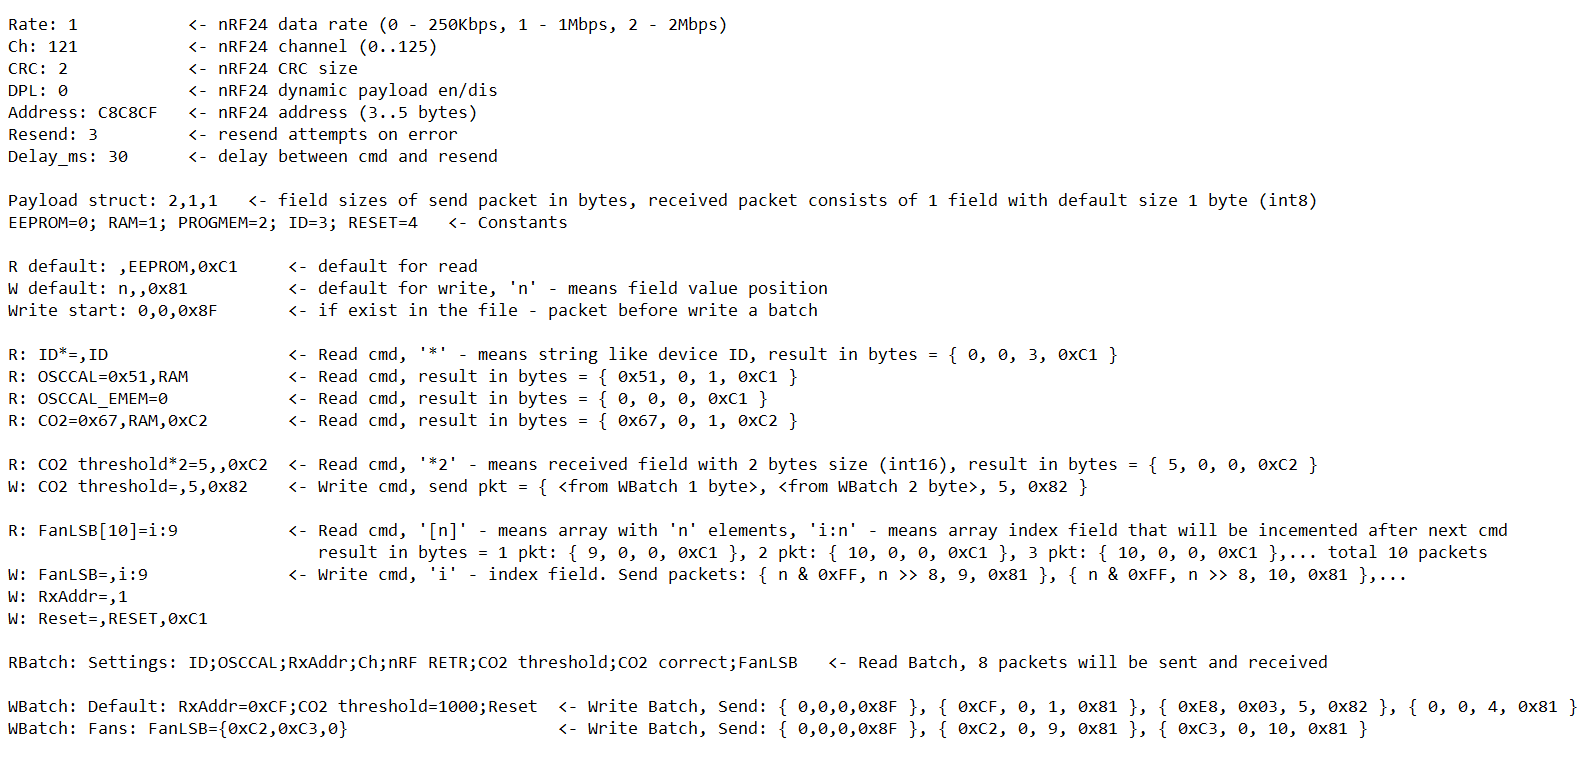
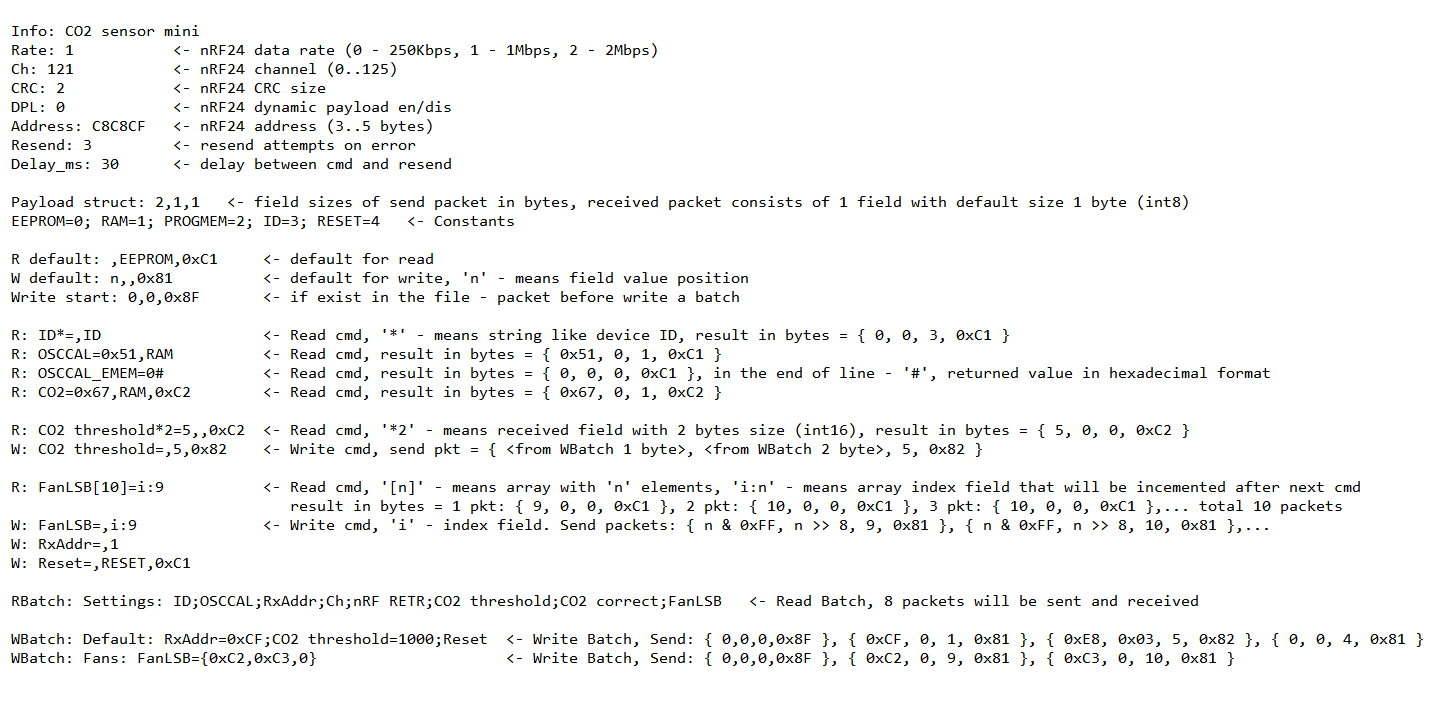
Ability to save in file read data (ReadBatch) as WriteBatch

diff --git a/nrf24batch.c b/nrf24batch.c
@@ -14,7 +14,7 @@
 #include <u8g2.h>
 
 #define TAG 		"nrf24batch"
-#define VERSION		"1.1"
+#define VERSION		"1.2"
 
 #define SCAN_APP_PATH_FOLDER "/ext/nrf24batch"
 #define LOG_FILENAME 		"log"
@@ -64,6 +64,7 @@ uint8_t send_status = sst_none;// sst_*
 bool cmd_array = false;
 uint8_t cmd_array_idx;
 uint8_t cmd_array_cnt = 0;
+bool cmd_array_hex;
 uint8_t save_settings = 0;
 uint16_t view_cmd[3] = {0, 0, 0}; // ReadBatch, Read, WriteBatch
 uint8_t view_x = 0;
@@ -257,16 +258,13 @@ static bool select_settings_file() {
 	FuriString* path;
 	path = furi_string_alloc();
 	furi_string_set(path, SCAN_APP_PATH_FOLDER);
-
 	DialogsFileBrowserOptions browser_options;
 	dialog_file_browser_set_basic_options(&browser_options, ".txt", NULL);
 	browser_options.hide_ext = false;
-
 	bool ret = dialog_file_browser_show(dialogs, path, path, &browser_options);
-
 	furi_record_close("dialogs");
 	if(ret) {
-		if(!file_stream_open(file_stream, furi_string_get_cstr(path), FSAM_READ, FSOM_OPEN_EXISTING)) {
+		if(!file_stream_open(file_stream, furi_string_get_cstr(path), FSAM_READ_WRITE, FSOM_OPEN_EXISTING)) {
 			FURI_LOG_D(TAG, "Cannot open file \"%s\"", furi_string_get_cstr(path));
 			file_stream_close(file_stream);
 		} else {
@@ -333,10 +331,13 @@ uint8_t nrf24_send_packet()
 
 uint8_t nrf24_resend_read_packet()
 {
-	if(Log_Total) {
+	if(Log_Total && !cmd_array) {
 		FuriString *str = Log[Log_Total - 1];
 		char *p = strstr(furi_string_get_cstr(str), ": ");
-		if(p) furi_string_left(str, p - furi_string_get_cstr(str) + 2);
+		if(p) {
+			if(strncmp(p + 2, "0x", 2) == 0) p += 2;
+			furi_string_left(str, p - furi_string_get_cstr(str) + 2);
+		}
 	}
 	return nrf24_send_packet();
 }
@@ -369,23 +370,23 @@ bool nrf24_read_newpacket() {
 			else if(size == 3) var = (*(uint32_t*)payload_receive) & 0xFFFFFF;
 			else var = *(int32_t*)payload_receive;
 			//FURI_LOG_D(TAG, "VAR(%d): %ld", size, var);
-			if(size == 0) furi_string_cat_printf(str, "%c", (char)var); 
+			if(size == 0) furi_string_cat_printf(str, "%c", (char)var);
 			else {
-				if(var >= 0 && var <= 9) furi_string_cat_printf(str, "%ld", var);
+				char hex[9];
+				snprintf(hex, sizeof(hex), "%lX", var);
+				if((cmd_array && cmd_array_hex) || furi_string_end_with_str(str, "0x")) furi_string_cat_str(str, hex);
 				else {
-					char hex[9];
-					snprintf(hex, sizeof(hex), "%lX", var);
-					furi_string_cat_printf(str, "%ld (%s)", var, hex + (var < 0 ? 8 - size * 2 : 0));
+					if(var >= 0 && var <= 9) furi_string_cat_printf(str, "%ld", var);
+					else furi_string_cat_printf(str, "%ld (%s)", var, hex + (var < 0 ? 8 - size * 2 : 0));
 				}
 			}
 			if(cmd_array) {
 				if(--cmd_array_cnt) {
 					furi_string_cat_str(str, ",");
-					payload[cmd_array_idx]++;
+					if(cmd_array_hex) furi_string_cat_str(str, "0x");
+					payload[cmd_array_idx]++;	// next array element
 					NRF_repeat = 0;
-					send_status = sst_sending;
-					furi_delay_ms(delay_between_pkt);
-					nrf24_send_packet();
+					send_status = sst_sending;	// Will be send after delay_between_pkt
 				} else send_status = sst_ok;
 			} else {
 				if(size == 0) { // string, until '\0'
@@ -448,6 +449,8 @@ bool fill_payload(char *p, uint8_t *idx_i, int32_t var_n)
 			}
 		} else if(end == p) {
 			idx += payload_struct[fld];
+		} else if(*p == '#') { // value in Hexadecimal, end string
+			break;
 		} else {
 			ERR = 2;
 			strcpy(ERR_STR, "char: ");
@@ -486,6 +489,8 @@ bool Run_Read_cmd(FuriString *cmd)
 	FuriString *fs = furi_string_alloc();
 	furi_string_set_strn(fs, (char*)furi_string_get_cstr(cmd), (*(p-2)=='*' ? p-2 : p) - (char*)furi_string_get_cstr(cmd)); // skip *n
 	furi_string_cat_str(fs, ": ");
+	bool hexval;
+	if((hexval = *(p + strlen(p) - 1) == '#')) furi_string_cat_str(fs, "0x"); // value in Hex format
 	Log[Log_Total++] = fs;
 	p++;
 	memset(payload, 0, sizeof(payload));
@@ -497,7 +502,10 @@ bool Run_Read_cmd(FuriString *cmd)
 		p = strchr(furi_string_get_cstr(cmd), '[');
 		if(p) {
 			cmd_array_cnt = str_to_int(p + 1);
-			if(cmd_array_cnt > 1) cmd_array = true; // array
+			if(cmd_array_cnt > 1) {
+				cmd_array_hex = hexval;
+				cmd_array = true; // array
+			}
 		}
 	}
 	prepare_nrf24();
@@ -778,7 +786,51 @@ static uint8_t load_settings_file() {
 
 static void save_batch(void)
 {
-// to do...
+	FURI_LOG_D(TAG, "Save Batch");
+	char *p, *p2;
+	stream_seek(file_stream, 0, StreamOffsetFromEnd); 
+    FuriHalRtcDateTime dt;
+    furi_hal_rtc_get_datetime(&dt);
+	stream_write_format(file_stream, "\n%s ", SettingsFld_WriteBatch);
+	p = (char*)furi_string_get_cstr(ReadBatch_cmd[view_cmd[rwt_read_batch]]);
+	p2 = strchr(p, ':');
+	if(p2 == NULL) p2 = p + strlen(p);
+	stream_write(file_stream, (uint8_t*)p, p2 - p);
+	stream_write_format(file_stream, " %02d.%02d.%02d %02d.%02d: ", dt.day, dt.month, dt.year % 100, dt.hour, dt.minute);
+	for(uint16_t i = 0; i < Log_Total; i++) {
+		p = (char*) furi_string_get_cstr(Log[i]);
+		p2 = strchr(p, ':');
+		if(p2 && *(p2-1) != '*') {	// skip string
+			if(*(p2-1) == ']') { // array
+				char *p3 = strchr(p, '[');
+				if(p3 == NULL) p3 = p2;
+				stream_write(file_stream, (uint8_t*)p, p3 - p);
+				stream_write_cstring(file_stream, "={");
+				p = (p2 += 2);
+				do {
+					while(is_digit(p2, true) || *p2 == 'x') p2++;
+					stream_write(file_stream, (uint8_t*)p, p2 - p);
+					char c = *p2;
+					if(c == '\0') break;
+					if(c != ',') {
+						p2 = strchr(p2, ',');
+						if(p2 == NULL) break;
+					}
+					stream_write_char(file_stream, ',');
+					p = ++p2;
+				} while(1);
+				stream_write_char(file_stream, '}');
+			} else {
+				stream_write(file_stream, (uint8_t*)p, p2 - p - (*(p2-2) == '*' ? 2 : 0));
+				stream_write_char(file_stream, '=');
+				p2 += 2;
+				p = strchr(p2, ' ');
+				if(p == NULL) p = p2 + strlen(p2);
+				stream_write(file_stream, (uint8_t*)p2, p - p2);
+			}
+			if(i < Log_Total - 1) stream_write_char(file_stream, ';');
+		}
+	}
 }
 
 static void input_callback(InputEvent* input_event, FuriMessageQueue* event_queue) {
@@ -787,6 +839,7 @@ static void input_callback(InputEvent* input_event, FuriMessageQueue* event_queu
 	furi_message_queue_put(event_queue, &event, FuriWaitForever);
 }
 
+#define FONT_5x7_SCREEN_WIDTH 25
 void render_display_list(Canvas* const canvas, FuriString ***fsa, char delim, uint16_t view_pos, uint16_t max_i)
 {
 	uint16_t page = view_pos & ~7;
@@ -799,8 +852,9 @@ void render_display_list(Canvas* const canvas, FuriString ***fsa, char delim, ui
 		if(end) {
 			if(*(end - 1) == '*') end--; // skip *
 			else if(*(end - 2) == '*') end -= 2; // skip *?
-			len = MIN((end - p), 30);
-			strncpy(screen_buf, p, len);
+			len = MIN(end - p, view_x);
+			len = MIN(end - p - len, FONT_5x7_SCREEN_WIDTH);
+			strncpy(screen_buf, p + view_x, len);
 			screen_buf[len] = '\0';
 			canvas_draw_str(canvas, 5, y, screen_buf);
 		}
@@ -811,7 +865,6 @@ void render_display_list(Canvas* const canvas, FuriString ***fsa, char delim, ui
 	}
 }
 
-#define FONT_5x7_SCREEN_WIDTH 25
 static void render_callback(Canvas* const canvas, void* ctx) {
 	const PluginState* plugin_state = acquire_mutex((ValueMutex*)ctx, 25);
 	if(plugin_state == NULL) return;
@@ -875,7 +928,7 @@ static void render_callback(Canvas* const canvas, void* ctx) {
 				strcpy(screen_buf, rw_type == rwt_read_batch ? "Read Batch: " : what_doing == 1 ? "Write Batch: " : "Write: ");
 				if(rw_type == rwt_read_batch || send_status != sst_none) {
 					if(NRF_ERROR) strcat(screen_buf, "nRF24 ERROR!");
-					else if(ERR) snprintf(screen_buf + strlen(screen_buf), 16, "Error %d", ERR); 
+					else if(ERR) snprintf(screen_buf + strlen(screen_buf), FONT_5x7_SCREEN_WIDTH - 7, "Error %d", ERR); 
 					else if(send_status == sst_error) strcat(screen_buf, "NO ACK!");
 					else if(send_status == sst_timeout) strcat(screen_buf, "TIMEOUT!");
 					else if(send_status == sst_ok && ((rw_type == rwt_read_batch && (uint32_t)ReadBatch_cmd_curr == 0xFFFFFFFF) 
@@ -886,10 +939,19 @@ static void render_callback(Canvas* const canvas, void* ctx) {
 					char *p = (char*)furi_string_get_cstr(WriteBatch_cmd[view_cmd[rwt_write_batch]]);
 					char *end = strchr(p, ':');
 					if(end) {
-						uint8_t len = MIN(end - p, 25);
-						end = screen_buf + strlen(screen_buf);
-						memcpy(end, p, len);
-						end[len] = '\0';
+						uint8_t len = end - p;
+						uint8_t lenb = strlen(screen_buf);
+						end = screen_buf + lenb;
+						lenb = FONT_5x7_SCREEN_WIDTH - lenb;
+						if(len > lenb) {
+							if(view_x < len) {
+								strncpy(end, p + view_x, len = MIN(lenb, len - view_x));
+								end[len] = '\0';
+							}
+						} else {
+							strncpy(end, p, len);
+							end[len] = '\0';
+						}
 					}
 				}
 			}
@@ -906,7 +968,7 @@ static void render_callback(Canvas* const canvas, void* ctx) {
 						canvas_draw_str(canvas, 0, y, ">");
 						canvas_draw_str(canvas, -1, y, ">");
 						if(Edit) {
-							int n = Edit_pos - p - vx - (FONT_5x7_SCREEN_WIDTH - 3);
+							int n = Edit_pos - p - vx - (FONT_5x7_SCREEN_WIDTH - 4);
 							if(n > 0) vx += n;	// fix out of screen
 							int x = 6 + (Edit_pos - p - vx) * 5;
 							canvas_draw_line(canvas, x - 1, y, x - 1, y - 1);
@@ -932,7 +994,7 @@ void work_timer_callback(void* ctx)
 		if(rw_type == rwt_write_batch) {
 			if(send_status == sst_ok) {
 				if(ERR == 0 && WriteBatch_cmd_curr < Log_Total && furi_get_tick() - NRF_time >= delay_between_pkt) {
-					if(++WriteBatch_cmd_curr < Log_Total) Run_WriteBatch_cmd();
+					if(++WriteBatch_cmd_curr < Log_Total) Run_WriteBatch_cmd(); else Edited = false;
 				}
 			} else if(send_status == sst_sending) {
 				if(NRF_repeat++ < NRF_resend) nrf24_send_packet(); 
@@ -941,12 +1003,15 @@ void work_timer_callback(void* ctx)
 					send_status = sst_error; // error NO_ACK
 				}
 			}
+		// ReadBatch or ReadCmd
 		} else if(send_status == sst_sending) { // sending
-			if(!NRF_last_packet_send_st) { // No ACK on last attempt
+//			if(!NRF_last_packet_send_st) { // No ACK on last attempt
 				if(furi_get_tick() - NRF_time > delay_between_pkt) {
-					if(NRF_repeat++ < NRF_resend) nrf24_resend_read_packet(); else send_status = sst_error; // error NO_ACK
+					if(NRF_repeat++ < NRF_resend) {
+						if(cmd_array) nrf24_send_packet(); else nrf24_resend_read_packet();
+					} else send_status = sst_error; // error NO_ACK
 				}
-			}
+//			}
 		} else if(send_status == sst_receiving) { // receiving
 			for(uint8_t i = 0; i < 3; i++) {
 				bool new = nrf24_read_newpacket();
@@ -1057,16 +1122,14 @@ int32_t nrf24batch_app(void* p) {
 							ask_question_answer ^= 1;
 						} else if(what_doing == 0) {
 						} else if(what_doing == 1) {
-							if(--rw_type > rwt_write_batch) rw_type = rwt_write_batch;
+							if(event.input.type == InputTypeShort) {
+								if(--rw_type > rwt_write_batch) rw_type = rwt_write_batch;
+							} else if(view_x) view_x--;
 						} else if(what_doing == 2) {
 							if(Edit) {
 								if(is_digit(Edit_pos - 1, Edit_hex)) Edit_pos--;
-								else if(*(Edit_pos - 1) == ',' && is_digit(Edit_pos - 2, true)) {
-									Edit_pos -= 2;
-									// char *p = Edit_pos;
-									// while(is_digit(p, true)) p--;
-									// Edit_hex = *p == 'x';
-								}
+								else if(*(Edit_pos - 1) == 'x' && *(Edit_pos - 3) == ',') Edit_pos -= 4;
+								else if(*(Edit_pos - 1) == ',') Edit_pos -= 2;
 							} else if(view_x) view_x--;
 						}
 					}
@@ -1078,12 +1141,15 @@ int32_t nrf24batch_app(void* p) {
 						} else if(what_doing == 0) {
 							what_doing = 1;
 						} else if(what_doing == 1) {
-							if(++rw_type > rwt_write_batch) rw_type = rwt_read_batch;
+							if(event.input.type == InputTypeShort) {
+								if(++rw_type > rwt_write_batch) rw_type = rwt_read_batch;
+							} else view_x++;
 						} else if(what_doing == 2) {
 							if(Edit) {
 								if(is_digit(Edit_pos + 1, Edit_hex)) Edit_pos++;
-								else if(*(Edit_pos + 1) == ',' && is_digit(Edit_pos + 2, Edit_hex)) {
-									if((/*Edit_hex =*/ *(Edit_pos + 3) == 'x')) Edit_pos += 3; else Edit_pos += 2;
+								else if(*(Edit_pos + 1) == ',') {
+									Edit_pos += 2;
+									if(*(Edit_pos + 1) == 'x') Edit_pos += 2;
 								}
 							} else view_x++;
 						}
@@ -1106,6 +1172,7 @@ int32_t nrf24batch_app(void* p) {
 									if(what_doing == 2) {
 										ERR = 0;
 										send_status = sst_none;
+										Edited = false;
 										what_doing--;
 									}
 								}
@@ -1122,6 +1189,7 @@ int32_t nrf24batch_app(void* p) {
 								if(ReadBatch_cmd_Total) {
 									ERR = 0;
 									Run_ReadBatch_cmd(ReadBatch_cmd[view_cmd[rwt_read_batch]]);
+									view_x = 0;
 									view_Batch = 0;
 									what_doing = 2;
 								}
@@ -1130,13 +1198,15 @@ int32_t nrf24batch_app(void* p) {
 									ERR = 0;
 									free_Log();
 									Run_Read_cmd(Read_cmd[view_cmd[rwt_read_cmd]]);
+									view_x = 0;
 									what_doing = 2;
 								}
 							} else if(rw_type == rwt_write_batch) {
 								if(WriteBatch_cmd_Total) {
 									Prepare_Write_cmd(WriteBatch_cmd[view_cmd[rwt_write_batch]]);
-									Edited = false;
 									send_status = sst_none;
+									Edited = false;
+									view_x = 0;
 									view_Batch = 0;
 									what_doing = 2;
 								}
@@ -1195,11 +1265,10 @@ int32_t nrf24batch_app(void* p) {
 					break;
 				case InputKeyBack:
 					if(event.input.type == InputTypeLong) {
-						if(what_doing <= 1) processing = false;
-						else if(what_doing == 2 && (Edited || rw_type == rwt_read_batch)) {
+						if(what_doing == 2 && (Edited || rw_type == rwt_read_batch)) {
 							if(!ask_question) ask_question_answer = 1;
 							ask_question = ask_exit;
-						}
+						} else processing = false;
 					} else if(event.input.type == InputTypeShort) {
 						if(Edit) Edit = 0;
 						else if(ask_question) ask_question = 0;

diff --git a/README.md b/README.md
@@ -5,20 +5,21 @@ Flipper Zero application for nRF24L01 external board. Sends batch commands. (IN 
 Можно использовать для настройки или чтения данных с удаленного устройства. На удаленной стороне для команды чтения требуется поддержка.<br>
 Сначала выбирается файл настройки с описанием команд.  
 Затем стрелками влево или вправо выбирается нужный режим - Пакетное чтение (Read Batch), Чтение по одной команде (Read cmd), Пакетная запись (Write Batch).  
-<br>
+<br><br>
 Есть два вида команд: запрос-ответ и запись.<br>
 Запрос-ответ - отправка пакета, переключение на прием и отображение на экране, что получили.<br>
 Запись - фактически отправка пакетов подряд с нужными данными.<br>
-<br>
-Формат пакета для отправки (payload) задается в виде размера полей структуры в байтах, например, так "Payload struct: 2,1,1",<br>
-что означает структуру из 3 полей: 2 байта, 1 байт, 1 байт.<br>
+<br><br>
+Формат пакета для отправки (payload) задается в виде размера полей структуры в байтах, например, так "Payload struct: 2,1,1", что означает структуру из 3 полей: 2 байта, 1 байт, 1 байт.<br>
 Полученный в ответ пакет состоит из одного значения, размерность по умолчанию 1 байт (int8), при необходимости, задается числом после '*' после имени команды.<br><br>
 Перед отправкой пакета, он заполняется сначала шаблону по умолчанию "R default" для запроса чтения, "W default" - для записи.<br>
 Можно использовать константы по их имени, они задаются в формате "имя=число", число либо десятичное или шестнадцатеричное с префиксом 0x.<br>
-Затем берутся заполненные значения из самой команды ("R:" или "W:").<br>
-Пакет состоит из списка имен команд, перечисленных через ";".<br>
-Перед пакетом команд для записи отправляется пакет 'Write start', если эта строка присутствует в файле.<br>
-Значение команды для записи можно редактировать - Ok на списке команд, стрелка +/- и переход по цифрам, завершить - Назад, вставка цифры - Ok, удаление цифру - длительный Ok.<br>
+Затем берутся заполненные значения полей из самой команды ("R:" или "W:").<br>
+Если в конце строки с командой чтения символ '#', считанное значение будет показано в шестнадцатеричном виде.<br><br>
+Пакет состоит из списка имен команд, перечисленных через ";".<br><br>
+Отправка пакета для записи - длительно нажать Ok в списке и подтвердить.<br>
+Перед пакетом команд для записи отправляется пакет 'Write start', если эта строка присутствует в файле настроек.<br><br>
+Значение команды для записи можно редактировать - Ok на списке команд, стрелки - +/- и переход по цифрам, завершить - Назад, вставка цифры - Ok, удаление цифры - длительный Ok.<br>
 <br>
 Пример файл [CO2_mini](https://raw.githubusercontent.com/vad7/nRF24-Batch/main/Distr/nrf24batch/CO2_mini.txt)<br>
 Для устройства на Attiny44A, которое отправляет данные с датчика CO2 на контроллеры, управляющие вентиляцией или проветриватели: https://github.com/vad7/CO2-mini
